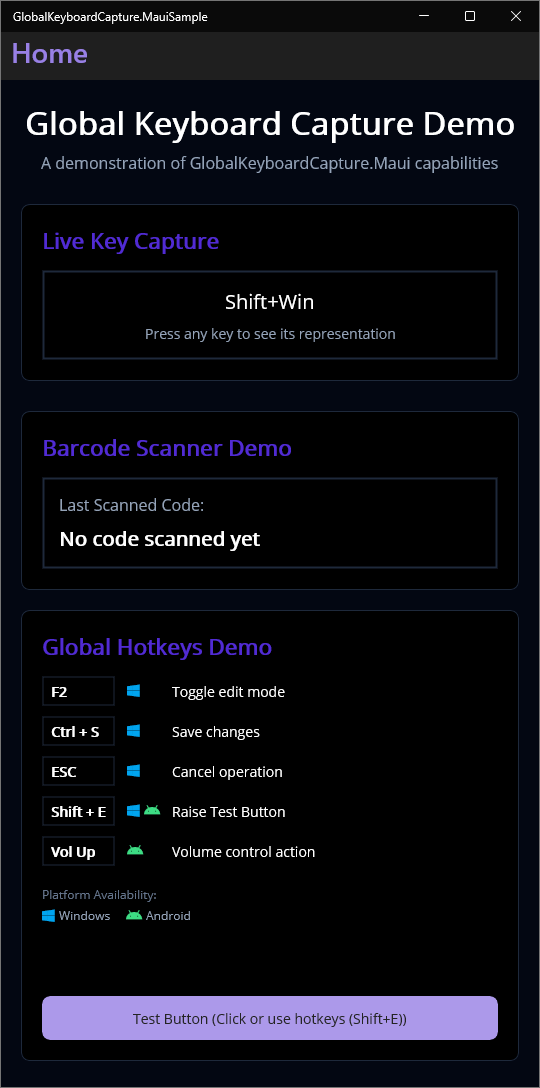
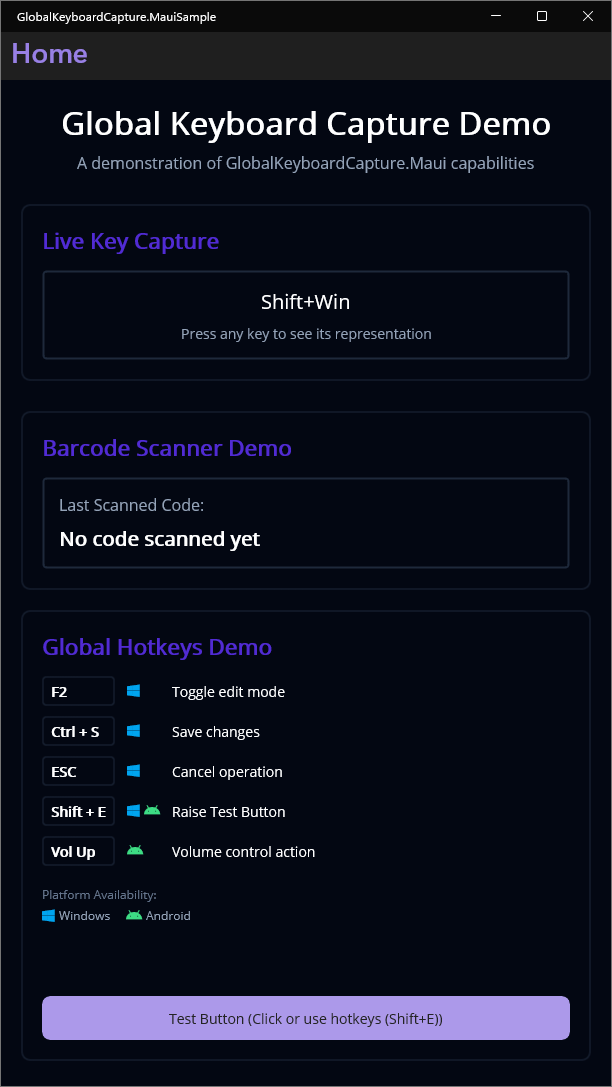
Ajustes em UI e documentação
No arquivo `MainPage.xaml`, adicionada a propriedade `MaximumWidthRequest="700"` ao elemento `<Grid>`. Substituídos elementos `<Frame>` por `<Border>`.

No arquivo `Styles.xaml`, alterada a propriedade `StrokeShape` do estilo `Border` de `Rectangle` para `RoundRectangle 3`.

Modificado o arquivo `Print.png`. No arquivo `README.md`, expandida a seção para incluir uma lista detalhada de suporte para várias teclas e caracteres.

diff --git a/GlobalKeyboardCapture.Maui.Sample/MainPage.xaml b/GlobalKeyboardCapture.Maui.Sample/MainPage.xaml
@@ -16,7 +16,10 @@
     </ContentPage.Resources>
 
     <ScrollView>
-        <Grid RowSpacing="20" Padding="20">
+        <Grid
+            RowSpacing="20"
+            Padding="20"
+            MaximumWidthRequest="700">
             <Grid.RowDefinitions>
                 <RowDefinition Height="Auto" />
                 <RowDefinition Height="Auto" />
@@ -40,12 +43,13 @@
             </VerticalStackLayout>
 
             <!--  Key Display Section  -->
-            <Frame
+            <Border
                 Grid.Row="1"
                 Margin="0,10"
                 Padding="20"
-                BorderColor="{AppThemeBinding Light={StaticResource Gray300},
-                                              Dark={StaticResource Gray800}}">
+                StrokeShape="RoundRectangle 8"
+                Stroke="{AppThemeBinding Light={StaticResource Gray300},
+                                         Dark={StaticResource Gray800}}">
                 <VerticalStackLayout Spacing="15">
                     <Label
                         Text="Live Key Capture"
@@ -74,14 +78,15 @@
                         </VerticalStackLayout>
                     </Border>
                 </VerticalStackLayout>
-            </Frame>
+            </Border>
 
             <!--  Barcode Scanner Demo  -->
-            <Frame
+            <Border
                 Grid.Row="2"
                 Padding="20"
-                BorderColor="{AppThemeBinding Light={StaticResource Gray300},
-                                              Dark={StaticResource Gray800}}">
+                StrokeShape="RoundRectangle 8"
+                Stroke="{AppThemeBinding Light={StaticResource Gray300},
+                                         Dark={StaticResource Gray800}}">
                 <VerticalStackLayout Spacing="15">
                     <Label
                         Text="Barcode Scanner Demo"
@@ -109,14 +114,15 @@
                         </VerticalStackLayout>
                     </Border>
                 </VerticalStackLayout>
-            </Frame>
+            </Border>
 
             <!--  Hotkeys Demo  -->
-            <Frame
+            <Border
                 Grid.Row="3"
                 Padding="20"
-                BorderColor="{AppThemeBinding Light={StaticResource Gray300},
-                                              Dark={StaticResource Gray800}}">
+                StrokeShape="RoundRectangle 8"
+                Stroke="{AppThemeBinding Light={StaticResource Gray300},
+                                         Dark={StaticResource Gray800}}">
                 <VerticalStackLayout Spacing="15">
                     <Label
                         Text="Global Hotkeys Demo"
@@ -317,7 +323,7 @@
                         Clicked="OnCounterClicked"
                         HorizontalOptions="Fill" />
                 </VerticalStackLayout>
-            </Frame>
+            </Border>
         </Grid>
     </ScrollView>
 </ContentPage>

diff --git a/GlobalKeyboardCapture.Maui.Sample/Resources/Styles/Styles.xaml b/GlobalKeyboardCapture.Maui.Sample/Resources/Styles/Styles.xaml
@@ -13,7 +13,7 @@
 
     <Style TargetType="Border">
         <Setter Property="Stroke" Value="{AppThemeBinding Light={StaticResource Gray200}, Dark={StaticResource Gray500}}" />
-        <Setter Property="StrokeShape" Value="Rectangle" />
+        <Setter Property="StrokeShape" Value="RoundRectangle 3" />
         <Setter Property="StrokeThickness" Value="1" />
     </Style>
 

diff --git a/README.md b/README.md
@@ -32,6 +32,15 @@ A powerful .NET MAUI library for global keyboard capture with strong support for
 - Input automation
 - Multi-mode keyboard capture
 
+## Full key support:
+- Standard keys (A-Z, 0-9)
+- Function keys (F1-F24)
+- Modifier keys (Ctrl, Alt, Shift)
+- Windows OEM keys (;, /, [, ], etc)
+- Android special keys (Volume, Back, Menu)
+- Navigation keys
+- Special characters
+
 ## Installation
 
 ```bash
